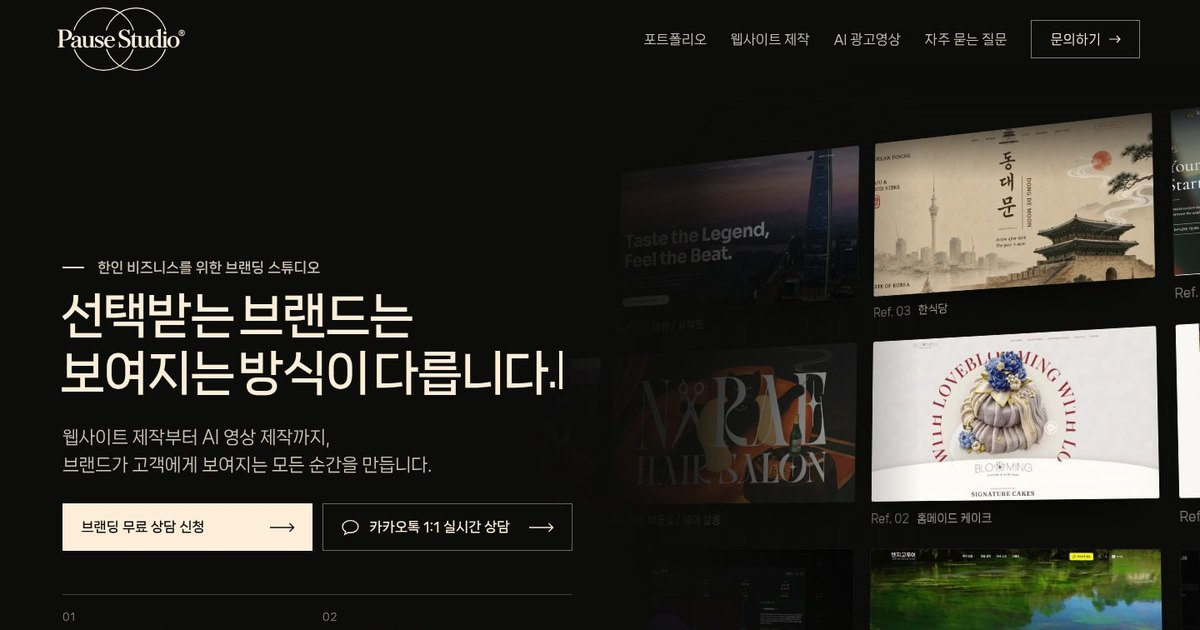
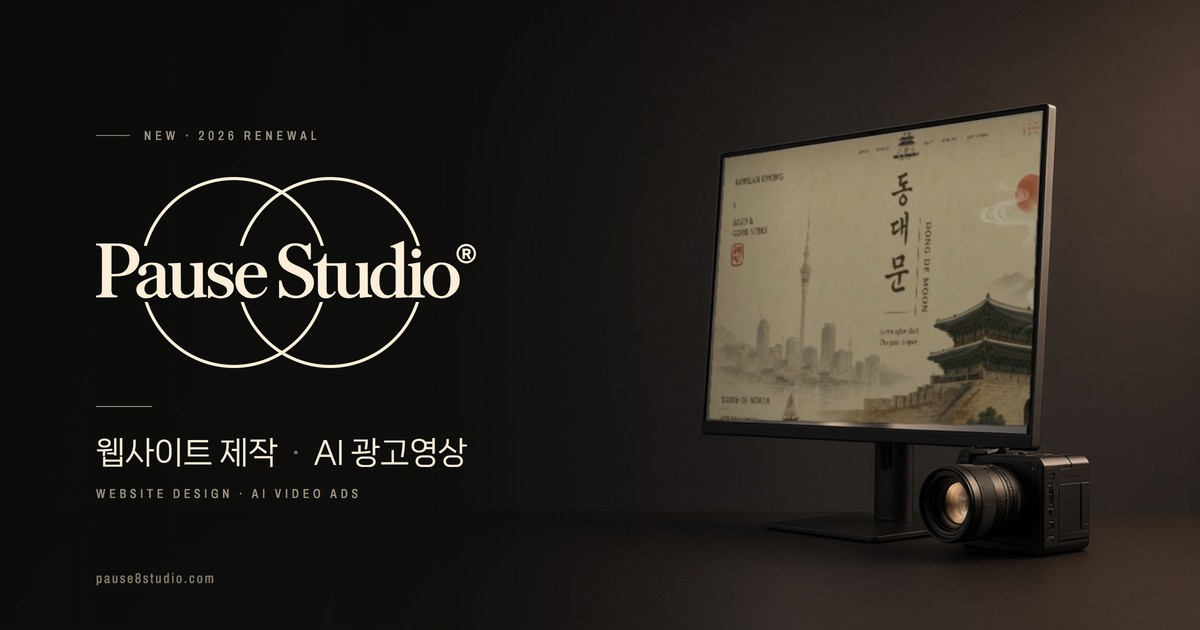
SEO(한글·영어 제목·설명, 구조화 데이터, hreflang, 미리보기 태그, 영어 소개 한 줄), 매니페스트, 새 카카오 링크 미리보기 이미지(1200×630)

diff --git a/site/src/render/page.ts b/site/src/render/page.ts
@@ -588,6 +588,7 @@ function footer() {
       </div>
     </div>
     <div class="ft-legal"><p class="ft-legal-h">${esc(f.legalLink)}</p><div class="body">${f.legal.map((l) => `<p>${esc(l)}</p>`).join('')}</div></div><!-- 2026-10-09 사용자: 법적 고지는 늘 펼쳐 둠 -->
+    <p class="ft-en" lang="en">${esc(C.meta.aboutEn)}</p>
     <div class="ft-bottom"><span>${esc(f.copyright)}</span><span>${esc(C.contact.address)} · ${esc(C.contact.nzbn)}</span></div>
   </div>
 </footer>`;
@@ -679,18 +680,36 @@ export function renderBody() {
 
 export function renderHead() {
   const m = C.meta;
+  const org = `${m.canonical}#studio`;
+  const svc = (name: string, en: string) => ({ '@type': 'Offer', itemOffered: { '@type': 'Service', name, alternateName: en, areaServed: ['US', 'NZ'] } });
   const ld = {
-    '@context': 'https://schema.org', '@type': 'ProfessionalService', name: 'PAUSE Studio', alternateName: '퍼즈 스튜디오',
-    description: m.description, url: m.canonical, image: m.ogImage, email: C.contact.email, telephone: '+64-20-488-7198',
-    address: { '@type': 'PostalAddress', streetAddress: '75 Victoria Street West', addressLocality: 'Auckland', postalCode: '1010', addressCountry: 'NZ' },
-    areaServed: ['NZ', 'US'], serviceType: ['웹사이트 제작', '비즈니스 웹사이트(예약·주문·결제) 제작', 'AI 업무 자동화', 'AI 광고영상 제작'],
+    '@context': 'https://schema.org',
+    '@graph': [
+      { '@type': 'WebSite', '@id': `${m.canonical}#site`, url: m.canonical, name: m.siteName, alternateName: ['퍼즈 스튜디오', 'Pause Studio', 'pausestudio'], inLanguage: ['ko', 'en'], publisher: { '@id': org } },
+      {
+        '@type': 'ProfessionalService', '@id': org, name: 'PAUSE Studio', alternateName: ['퍼즈 스튜디오', 'Pause Studio'],
+        description: m.description, url: m.canonical, image: m.ogImage, logo: `${m.canonical}icon-512.png`, email: C.contact.email, telephone: '+64-20-488-7198',
+        address: { '@type': 'PostalAddress', streetAddress: '75 Victoria Street West', addressLocality: 'Auckland', postalCode: '1010', addressCountry: 'NZ' },
+        areaServed: [{ '@type': 'Country', name: 'United States' }, { '@type': 'Country', name: 'New Zealand' }],
+        knowsLanguage: ['ko', 'en'], priceRange: '$$',
+        sameAs: ['https://open.kakao.com/o/s58WfSEi'],
+        makesOffer: [
+          svc('웹사이트 제작', 'Custom website design & development'),
+          svc('비즈니스 웹사이트(예약·주문·결제) 제작', 'Business websites with booking, ordering and payments'),
+          svc('AI 광고영상 제작', 'AI video ads for social media and websites'),
+          svc('AI 업무 자동화', 'AI workflow automation'),
+        ],
+      },
+    ],
   };
   return `<title>${esc(m.title)}</title>
 <meta name="description" content="${esc(m.description)}">
 <meta name="keywords" content="${esc(m.keywords)}">
 <link rel="canonical" href="${m.canonical}">
 <meta name="google-site-verification" content="${m.googleSiteVerification}">
-<meta property="og:type" content="website"><meta property="og:url" content="${m.canonical}"><meta property="og:title" content="${esc(m.ogTitle)}"><meta property="og:description" content="${esc(m.ogDescription)}"><meta property="og:image" content="${m.ogImage}"><meta property="og:locale" content="ko_KR">
+<meta property="og:type" content="website"><meta property="og:url" content="${m.canonical}"><meta property="og:title" content="${esc(m.ogTitle)}"><meta property="og:description" content="${esc(m.ogDescription)}"><meta property="og:image" content="${m.ogImage}"><meta property="og:image:width" content="1200"><meta property="og:image:height" content="630"><meta property="og:image:alt" content="${esc(m.ogImageAlt)}"><meta property="og:site_name" content="${esc(m.siteName)}"><meta property="og:locale" content="ko_KR"><meta property="og:locale:alternate" content="en_US">
+<link rel="alternate" hreflang="ko" href="${m.canonical}"><link rel="alternate" hreflang="x-default" href="${m.canonical}">
+<meta name="robots" content="index, follow, max-image-preview:large">
 <meta name="twitter:card" content="summary_large_image"><meta name="twitter:title" content="${esc(m.ogTitle)}"><meta name="twitter:description" content="${esc(m.ogDescription)}"><meta name="twitter:image" content="${m.ogImage}">
 <meta name="theme-color" content="#0C0C0B">
 <link rel="icon" href="/favicon.svg" type="image/svg+xml"><link rel="icon" href="/favicon.ico" sizes="any"><link rel="apple-touch-icon" href="/apple-touch-icon.png"><link rel="manifest" href="/site.webmanifest">

diff --git a/site/src/content/ko.ts b/site/src/content/ko.ts
@@ -22,14 +22,19 @@ export const contact = {
 
 export const meta = {
   lang: 'ko',
-  title: 'PAUSE Studio | 퍼즈 스튜디오 · 한인 비즈니스를 위한 브랜딩 스튜디오',
+  // 2026-10-12 사용자: 한글·영어 모두, 특히 미국에서 검색되게 — 제목에 한글 서비스명 + 영어 서비스명, 설명은 한글 뒤에 짧은 영어 한 문장
+  title: 'PAUSE Studio 퍼즈 스튜디오 | 웹사이트 제작 · AI 광고영상 | Web Design & AI Video Ads for Korean Businesses',
   description:
-    '선택받는 브랜드는 보여지는 방식이 다릅니다. 웹사이트 제작부터 AI 광고영상까지, 뉴질랜드·미국 한인 비즈니스를 위한 브랜드 맞춤 제작. 제작비는 한 번, PAUSE Studio 기본 월 관리비 $0.',
-  keywords: 'pausestudio, pause8studio, pause studio, 퍼즈스튜디오, 퍼즈 스튜디오, 웹사이트 제작, AI 광고영상, AI 영상 제작, 오클랜드 웹사이트 제작, 뉴질랜드 웹 제작, 한인 비즈니스',
+    '미국·뉴질랜드 한인 비즈니스를 위한 웹사이트 제작과 AI 광고영상. 대표가 직접 만드는 브랜드 맞춤 디자인, 제작비는 한 번, 기본 월 관리비 $0. Custom website design and AI video ads for Korean businesses in the US and New Zealand.',
+  keywords: 'PAUSE Studio, pausestudio, pause8studio, 퍼즈 스튜디오, 퍼즈스튜디오, 웹사이트 제작, 홈페이지 제작, 한인 웹사이트 제작, 미국 한인 홈페이지 제작, LA 웹사이트 제작, 뉴욕 웹사이트 제작, 오클랜드 웹사이트 제작, 뉴질랜드 홈페이지 제작, 반응형 웹사이트, 쇼핑몰 제작, 예약 웹사이트, AI 광고영상, AI 영상 제작, 숏폼 광고, 릴스 광고 제작, Korean web design agency, Korean American business website, website design for Korean businesses, web design Los Angeles, web design New York, web design Auckland, AI video ads, AI commercial video production',
   canonical: 'https://pause8studio.com/',
-  ogTitle: 'PAUSE Studio | 한인 비즈니스를 위한 브랜딩 스튜디오',
-  ogDescription: '브랜드는 더 돋보이게. 매달 관리비는 없게. 웹사이트 제작부터 AI 광고영상까지, 브랜드가 고객에게 보여지는 모든 순간을 만듭니다.',
+  siteName: 'PAUSE Studio',
+  ogTitle: 'PAUSE Studio | 웹사이트 제작 · AI 광고영상',
+  ogDescription: '새로워진 PAUSE Studio. 대표가 직접 만드는 맞춤 웹사이트, 사진 한 장으로 만드는 AI 광고영상. 제작비는 한 번, 월 관리비 $0.',
   ogImage: 'https://pause8studio.com/og.jpg',
+  ogImageAlt: 'PAUSE Studio 로고와 웹사이트 제작 · AI 광고영상',
+  /** 화면 맨 아래 영어 소개 한 줄(영어 검색용, 실제로 보이는 글) */
+  aboutEn: 'PAUSE Studio is a bilingual branding studio based in Auckland, building custom websites and AI video ads for Korean businesses across the United States and New Zealand.',
   googleSiteVerification: 'YRTNSno7nYptgfm08ZthTl09DUbhS9NT6hKgg9iOQ4U',
 };
 

diff --git a/tools/og/og.html b/tools/og/og.html
@@ -1,0 +1,26 @@
+<!doctype html>
+<!-- 카카오톡·SNS 링크 미리보기(og.jpg, 1200×630). 배경 = Higgsfield Grok Imagine(v36-og-a), 글자·로고는 사이트 파일 그대로.
+     렌더: node tools/og/render.mjs → site/public/og.jpg -->
+<html lang="ko"><head><meta charset="utf-8"><style>
+@font-face{font-family:'PS Text';src:url('../../site/public/fonts/ps-text-site.woff2') format('woff2');font-weight:400}
+@font-face{font-family:'PS Text';src:url('../../site/public/fonts/ps-text-ext.woff2') format('woff2');font-weight:400}
+@font-face{font-family:'PS Display';src:url('../../site/public/fonts/ps-display-latin.woff2') format('woff2')}
+html,body{margin:0;width:1200px;height:630px;overflow:hidden;background:#0C0C0B}
+.c{position:relative;width:1200px;height:630px;background:url(bg-screen.jpg) right center/cover no-repeat}
+.c::before{content:"";position:absolute;inset:0;background:linear-gradient(90deg,rgba(12,12,11,.92) 0%,rgba(12,12,11,.78) 38%,rgba(12,12,11,0) 66%)}
+.in{position:absolute;left:96px;top:0;bottom:0;display:flex;flex-direction:column;justify-content:center;color:#FCEED8}
+.tag{font-family:'PS Display';font-size:13px;letter-spacing:.32em;color:rgba(252,238,216,.62);display:flex;align-items:center;gap:14px;margin-bottom:34px}
+.tag i{display:block;width:34px;height:1px;background:rgba(252,238,216,.5)}
+.logo{width:380px;display:block}
+.rule{width:56px;height:1px;background:rgba(252,238,216,.55);margin:38px 0 26px}
+.ko{font-family:'PS Text';font-size:31px;letter-spacing:-.01em;line-height:1.3}
+.ko b{font-weight:400;color:rgba(252,238,216,.45);margin:0 .45em}
+.en{margin-top:14px;font-family:'PS Display';font-size:13px;letter-spacing:.3em;color:rgba(252,238,216,.6)}
+.url{position:absolute;left:96px;bottom:44px;font-family:'PS Display';font-size:14px;letter-spacing:.14em;color:rgba(252,238,216,.5)}
+</style></head><body><div class="c"><div class="in">
+<div class="tag"><i></i>NEW · 2026 RENEWAL</div>
+<img class="logo" src="../../site/public/brand/logo-cream.svg" alt="">
+<div class="rule"></div>
+<div class="ko">웹사이트 제작<b>·</b>AI 광고영상</div>
+<div class="en">WEBSITE DESIGN · AI VIDEO ADS</div>
+</div><div class="url">pause8studio.com</div></div></body></html>

diff --git a/site/src/styles/main.css b/site/src/styles/main.css
@@ -841,6 +841,7 @@ a.reveal-btn { animation: fadeIn .5s var(--ease); }
 .ft-legal { margin-top: clamp(48px, 4vw, 80px); border-top: 1px solid var(--cream-line); padding-top: 18px; font-size: 13.5px; line-height: 1.8; color: var(--cream-3); }
 .ft-legal-h { color: var(--cream-2); font-family: var(--f-text-md); font-weight: var(--w-text-md); }
 .ft-legal .body { padding-top: 14px; display: grid; gap: 10px; max-width: 70em; }
+.ft-en { margin-top: 28px; max-width: 62em; font-size: 13px; line-height: 1.7; color: var(--cream-3); } /* 영어 검색용 소개 한 줄(2026-10-12) */
 .ft-bottom { margin-top: 28px; display: flex; flex-wrap: wrap; justify-content: space-between; gap: 12px 32px; font-size: 13px; color: var(--cream-3); }
 
 /* ───────── 상담 신청 ───────── */

diff --git a/tools/og/screen.py b/tools/og/screen.py
@@ -1,0 +1,23 @@
+"""배경(Higgsfield v36-og-a) 모니터에 실제 포트폴리오 화면(Ref.03 동대문)을 원근에 맞춰 입힘 → tools/og/bg-screen.jpg"""
+import cv2, numpy as np
+from pathlib import Path
+D = Path(__file__).parent
+bg = cv2.imread(str(D / 'bg.jpg')).astype(np.float32)
+sc = cv2.imread(str(D.parents[1] / 'site/public/media/work/ref03-1920.jpg'))
+h, w = sc.shape[:2]
+sc = sc[:, : int(h * 1.6)]  # 모니터 비율(16:10)에 맞춰 왼쪽부터
+h, w = sc.shape[:2]
+dst = np.float32([[773, 192], [1111, 143], [1097, 478], [755, 471]])  # 화면 안쪽 네 모서리(배경 1280×720 기준)
+M = cv2.getPerspectiveTransform(np.float32([[0, 0], [w, 0], [w, h], [0, h]]), dst)
+warp = cv2.warpPerspective(sc, M, (bg.shape[1], bg.shape[0]), flags=cv2.INTER_AREA).astype(np.float32)
+mask = cv2.warpPerspective(np.full((h, w), 255, np.uint8), M, (bg.shape[1], bg.shape[0]))
+mask = cv2.GaussianBlur(mask, (3, 3), 0).astype(np.float32)[..., None] / 255
+# 어두운 방의 모니터처럼: 밝기 낮추고 따뜻하게, 위에서 아래로 살짝 반사광
+warp = cv2.GaussianBlur(warp, (0, 0), 0.6) * 0.78
+warp[..., 0] *= 0.92  # 파랑 줄임
+ys = np.linspace(0, 1, bg.shape[0])[:, None, None]
+glare = np.clip(1.0 - ys * 0.25, 0.75, 1.0)
+warp = warp * glare + 10
+out = bg * (1 - mask) + warp * mask
+cv2.imwrite(str(D / 'bg-screen.jpg'), np.clip(out, 0, 255).astype(np.uint8), [cv2.IMWRITE_JPEG_QUALITY, 95])
+print('ok')

diff --git a/higgsfield/COSTS.md b/higgsfield/COSTS.md
@@ -96,3 +96,4 @@
 - 최종 인물(사용자 선택: G2-iphone 인물 + G3-3 실사 질감): qwen edit 실사화+단아한 니트 2장 $0.15(b 채택 → `drafts/v35/model-G2-real.png`) + 상반신 사면도 1장 $0.075 → `drafts/v35/model-G2-turnaround.png`. 35차 누계 약 $0.97.
 - 재작업(화장·볼살·가슴 볼륨 유지 + 필름 질감): qwen edit 3건 중 1장 완료 $0.075(2건 실패 환불) → `model-G2-real2.png`, 로컬 필름 질감 `tools/adv35/filmlook.py` → `model-G2-real2-film.jpg`(무료). 35차 누계 약 $1.05.
 - G3-3 스타일(soul/v2 Nature light 1080p)로 G2 특징 묘사 8장 $0.046 → `drafts/v35/sheet-k.jpg`. 35차 누계 약 $1.10.
+- 36차 카카오 링크 미리보기 배경: grok-imagine-image-2.0 16:9 2장 × $0.06 = **$0.12** (a 채택, 모니터에 Ref.03 화면 합성·로고·글자는 사이트 파일) → `tools/og/`, `site/public/og.jpg`
